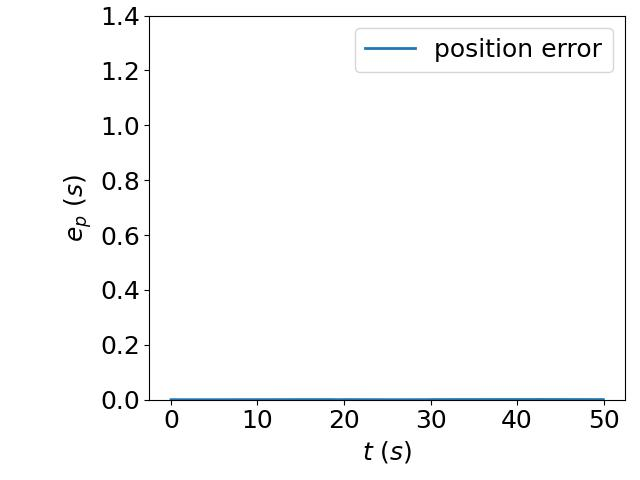
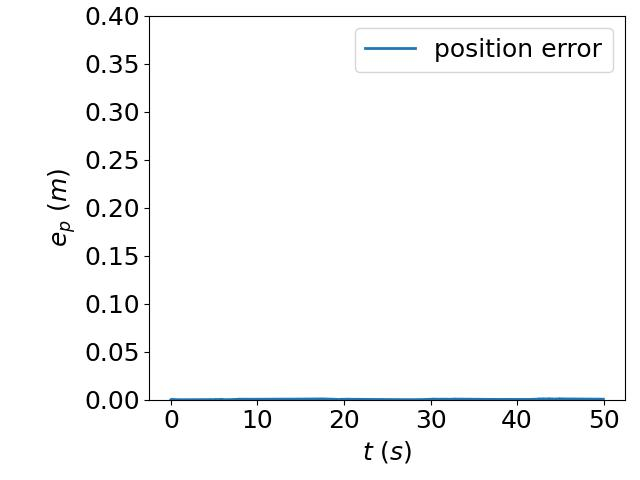
'update'

diff --git a/scripts/plt_bag.m b/scripts/plt_bag.m
@@ -1,0 +1,125 @@
+clear;
+num_bags = 10;
+vehicle_odoms = zeros(1000,2,num_bags);
+vehicle_cmds = zeros(1000,2,num_bags);
+bag_len = zeros(num_bags,1);
+x_diff = zeros(num_bags,1);
+y_diff = zeros(num_bags,1);
+l2_diff = zeros(num_bags,1);
+ang_diff = zeros(num_bags,1);
+for i = 1:num_bags
+%     if i ==7
+%         continue
+%     end
+    if i<10
+        bag_name=sprintf('%s%d%s','ps_1_5_0_6_1_0_0_5_0',i,'.bag');
+%         bag_name=sprintf('%s%d%s','ps_1_5_0_6_1_0_1_0_0',i,'.bag');
+    else
+        bag_name=sprintf('%s%d%s','ps_1_5_0_6_1_0_0_5_',i,'.bag');
+%         bag_name=sprintf('%s%d%s','ps_1_5_0_6_1_0_1_0_',i,'.bag');
+    end
+
+    bag = rosbag(bag_name);
+    bag_len(i) = bag.NumMessages;
+    current = select(bag,'Topic','/vehicle_pose','MessageType','nav_msgs/Odometry');
+    vehicle_current = readMessages(current,'DataFormat','struct');
+    for j=1:bag_len(i)
+        vehicle_odoms(j,1,i) = vehicle_current{j,1}.Pose.Pose.Position.X;
+        vehicle_odoms(j,2,i) = vehicle_current{j,1}.Pose.Pose.Position.Y;
+    end
+    w = vehicle_current{j,1}.Pose.Pose.Orientation.W;
+    x = vehicle_current{j,1}.Pose.Pose.Orientation.X;
+    y = vehicle_current{j,1}.Pose.Pose.Orientation.Y;
+    z = vehicle_current{j,1}.Pose.Pose.Orientation.Z;
+    eul = quat2eul([w x y z]);
+    x_diff(i) = abs(3 - vehicle_odoms(bag_len(i),1,i));
+    y_diff(i) = abs(0 - vehicle_odoms(bag_len(i),2,i));
+    l2_diff(i) = sqrt(x_diff(i)^2+y_diff(i)^2);
+    ang_diff(i) = abs(pi/6 - eul(1));
+end
+
+x_diff_mean = mean(x_diff);
+y_diff_mean = mean(y_diff);
+l2_diff_mean = mean(l2_diff);
+x_diff_sd = std(x_diff);
+y_diff_sd = std(y_diff);
+l2_diff_sd = std(l2_diff);
+x_diff = sort(x_diff);
+y_diff = sort(y_diff);
+l2_diff = sort(l2_diff);
+ang_diff = sort(ang_diff);
+boxplot([x_diff(2:end-1),y_diff(2:end-1),l2_diff(2:end-1),ang_diff(2:end-1)],'Labels',{'x_diff','y_diff','l2_diff','angle_dlff'},'Whisker',10);
+title('Boxplot of the errors')
+ylabel('Errors (m or rad)');
+
+
+num_forward=8;
+path_type_forward=[0;1;0;1;0;1;0;1];% 1 stands for bezier curve, 0 stands for straigt line
+P_forward=zeros(2,num_forward*4);
+
+P_forward(1:2,1:4)=[0,0,0,4;2,0,0,2];
+P_forward(1:2,5:8)=[4,4.5477,5,5;2,2,1.5477,1];
+P_forward(1:2,9:12)=[5,0,0,5;1,0,0,-2];
+P_forward(1:2,13:16)=[5,5,4.5477,4;-2,-2.5477,-3,-3];
+P_forward(1:2,17:20)=[4,0,0,1;-3,0,0,-3];
+P_forward(1:2,21:24)=[1,0.4532,0,0;-3,-3,-2.5477,-2];
+P_forward(1:2,25:28)=[0,0,0,0;-2,0,0,-1];
+P_forward(1:2,25:28)=[0,0,0,0;-2,0,0,-1];
+P_forward(1:2,29:32)=[0,0,2.0341,3;-1,0.6201,-0.5577,0];
+
+dt=0.005;
+step_total=floor(8/dt);
+step=floor(step_total/8);
+x_ori=zeros(8*step+1,1);
+y_ori=zeros(8*step+1,1);
+dk=1/step;
+x_ori(1) = P_forward(1,1);
+y_ori(1) = P_forward(2,1);
+for k=1:8
+    if path_type_forward(k)==1
+        for i=1:step %calculate the points on original bezier curve
+            [x_ori(1+i+(k-1)*step),y_ori(1+i+(k-1)*step)]=calculate_bezier_point(P_forward(1:2,(k-1)*4+1:4*k),i*dk);
+        end
+    else
+        x0=P_forward(1,(k-1)*4+1);
+        y0=P_forward(2,(k-1)*4+1);
+        x_end=P_forward(1,4*k);
+        y_end=P_forward(2,4*k);
+        Len=norm([y_end-y0;x_end-x0]);
+        theta_line=atan2(y_end-y0,x_end-x0);
+        for i=1:step
+            x_ori(1+i+(k-1)*step)=x0+i*dk*Len*cos(theta_line);
+            y_ori(1+i+(k-1)*step)=y0+i*dk*Len*sin(theta_line);
+        end
+    end
+end
+color = zeros(10,3);
+color(1,:) = [255 5 5]/255;
+color(2,:) = [255 100 5]/255;
+color(3,:) = [255 255 5]/255;
+color(4,:) = [200 255 5]/255;
+color(5,:) = [5 255 5]/255;
+color(6,:) = [5 255 100]/255;
+color(7,:) = [5 255 255]/255;
+color(8,:) = [5 200 255]/255;
+color(9,:) = [5 5 255]/255;
+color(10,:) = [255 5 255]/255;
+
+figure;
+hold on;
+% t_xer1 = ['average x error: ', num2str(mean(x_diff(2:end-1)))];
+% t_yer1 = ['average y error: ', num2str(mean(y_diff(2:end-1)))];
+% t_l2er1 = ['average l2 error: ', num2str(mean(l2_diff(2:end-1)))];
+% t_anger1 = ['average ang error: ', num2str(mean(ang_diff(2:end-1)))];
+% title({'qv 0.5';t_xer1;t_yer1;t_l2er1;t_anger1})
+plot(x_ori,y_ori,'-k','LineWidth',3);
+for i=1:1
+    plot(vehicle_odoms(1:bag_len(i),1,i),vehicle_odoms(1:bag_len(i),2,i),'-','LineWidth',1,'Color',color(i,:));
+end
+hold off;
+xlabel('m');
+ylabel('m');
+xlim([-1 6]);
+ylim([-3.5 2.5]);
+grid on;
+axis equal;

diff --git a/problems/unicycle_traj_tracking/data/physical_experiment/draw.py b/problems/unicycle_traj_tracking/data/physical_experiment/draw.py
@@ -1,11 +1,33 @@
 import numpy as np
 import matplotlib.pyplot as plt
+import scipy.io as sio
 import os
 from problems.unicycle_traj_tracking.data.butterfly_tracking.draw import load_data_and_save_figure
 
 def main():
     gmpc_solver_time = np.load('Geomtric_model_predictive_control_store_solve_time.npy')
     nmpc_solver_time = np.load('Nonlinear_model_predictive_control_store_solve_time.npy')
+    # save as mat file
+    sio.savemat('solve_time.mat', {'gmpc_solver_time': gmpc_solver_time, 'nmpc_solver_time': nmpc_solver_time})
+    # calculate mean and std
+    gmpc_solver_time_mean = np.mean(gmpc_solver_time)
+    gmpc_solver_time_std = np.std(gmpc_solver_time-gmpc_solver_time_mean)
+    nmpc_solver_time_mean = np.mean(nmpc_solver_time)
+    nmpc_solver_time_std = np.std(nmpc_solver_time-nmpc_solver_time_mean)
+    # max and min
+    gmpc_solver_time_max = np.max(gmpc_solver_time)
+    gmpc_solver_time_min = np.min(gmpc_solver_time)
+    nmpc_solver_time_max = np.max(nmpc_solver_time)
+    nmpc_solver_time_min = np.min(nmpc_solver_time)
+    print('gmpc_solver_time_mean: ', gmpc_solver_time_mean)
+    print('gmpc_solver_time_std: ', gmpc_solver_time_std)
+    print('nmpc_solver_time_mean: ', nmpc_solver_time_mean)
+    print('nmpc_solver_time_std: ', nmpc_solver_time_std)
+    print('gmpc_solver_time_max: ', gmpc_solver_time_max)
+    print('gmpc_solver_time_min: ', gmpc_solver_time_min)
+    print('nmpc_solver_time_max: ', nmpc_solver_time_max)
+    print('nmpc_solver_time_min: ', nmpc_solver_time_min)
+
     plt.figure()
     plt.boxplot([gmpc_solver_time, nmpc_solver_time], labels=['GMPC', 'NMPC'],showfliers=False, patch_artist=True )
     plt.ylabel('Solve time (s)')

diff --git a/controller/ref_traj_generator.py b/controller/ref_traj_generator.py
@@ -157,14 +157,16 @@ class TrajGenerator:
 
 def test_traj_generator():
     traj_config = {'type': TrajType.CIRCLE,
-                   'param': {'start_state': np.array([1, 1, np.pi]),
-                             'linear_vel': 0.5,
-                             'angular_vel': 0.5,
-                             'nTraj': 170,
-                             'dt': 0.05}}
+                   'param': {'start_state': np.array([0, 0, 0]),
+                             'dt': 0.2,
+                             'linear_vel': 0.1,
+                             'angular_vel': 0.05,  # don't change this
+                             'nTraj': 650}}
     traj_generator = TrajGenerator(traj_config)
     ref_traj, ref_v, dt = traj_generator.get_traj()
     plt.figure(1)
+    # show grid
+    plt.grid()
     plt.plot(ref_traj[0, :], ref_traj[1, :], 'b')
     plt.title('Reference Trajectory')
     plt.show()
@@ -220,4 +222,4 @@ def test_generate_eight_traj():
 
 
 if __name__ == '__main__':
-    test_generate_eight_traj()
+    test_traj_generator()

diff --git a/test/compare_euler_so2.py b/test/compare_euler_so2.py
@@ -21,7 +21,7 @@ ax.set_zlabel('$\cos(x)$',fontsize=font_size)
 ax.grid(linewidth=2)  # Adjust grid line width
 plt.tight_layout()
 ax.tick_params(labelsize=16)  # Adjust font size of grid numbers
-plt.savefig('lie_group.png')
+plt.savefig('lie_group.jpg')
 
 fig = plt.figure()
 ax = fig.add_subplot(111, projection='3d')
@@ -32,7 +32,7 @@ for i in range(-5,5):
     ax.plot(x+i*2*np.pi, y, z, color='blue')
     ax.scatter(-np.pi+i*2*np.pi, -np.pi, edgecolor='black', facecolors='none')
 ax.set_xlabel('x', fontsize=font_size)
-ax.set_ylabel('$\\theta$', fontsize=font_size)
+ax.set_ylabel('$\\theta$ (rad)', fontsize=font_size)
 
 ax.set_ylim([-4,4])
 ax.set_zlim([-4,4])
@@ -40,6 +40,6 @@ plt.tight_layout()
 ax.grid(linewidth=3)  # Adjust grid line width
 ax.tick_params(labelsize=16)  # Adjust font size of grid numbers
 
-plt.savefig('euler.png')
+plt.savefig('euler.jpg')
 
 plt.show()

diff --git a/problems/unicycle_traj_tracking/data/butterfly_tracking/draw.py b/problems/unicycle_traj_tracking/data/butterfly_tracking/draw.py
@@ -41,7 +41,7 @@ def load_data_and_save_figure(data_path):
     line_width = 2
     plt.xticks(fontsize=font_size)
     plt.yticks(fontsize=font_size)
-    pos_lim = 1.4
+    pos_lim = 0.4
     ori_lim = 1.4
     plt.plot(t, orientation_error.T,label='orientation error', linewidth=line_width)
     plt.xlabel("$t~(s)$",fontsize=20)
@@ -59,7 +59,7 @@ def load_data_and_save_figure(data_path):
     plt.yticks(fontsize=font_size)
     plt.plot(t, position_error.T,label='position error', linewidth=line_width)
     plt.xlabel("$t~(s)$",fontsize=font_size)
-    plt.ylabel("$e_p~(s)$",fontsize=font_size)
+    plt.ylabel("$e_p~(m)$",fontsize=font_size)
     plt.legend(fontsize=font_size)
     plt.tight_layout()
     plt.ylim(0, pos_lim)

diff --git a/controller/feedback_linearization.py b/controller/feedback_linearization.py
@@ -28,6 +28,7 @@ class FBLinearizationController:
         start_time = time.time()
         v_d, w_d = ref_vel_cmd
         state_diff = ref_state - curr_state
+        state_diff[2] = np.arctan2(np.sin(state_diff[2]), np.cos(state_diff[2]))
         frame_rot = np.array([[np.cos(curr_state[2]), np.sin(curr_state[2]), 0],
                               [-np.sin(curr_state[2]), np.cos(curr_state[2]), 0],
                               [0, 0, 1]])

diff --git a/problems/unicycle_traj_tracking/main_single_tracking_task.py b/problems/unicycle_traj_tracking/main_single_tracking_task.py
@@ -9,7 +9,7 @@ import os
 import matplotlib.pyplot as plt
 
 def single_tracking_task():
-    env_type = EnvType.TURTLEBOT
+    env_type = EnvType.SCOUT_MINI
     controller_type = ControllerType.FEEDBACK_LINEARIZATION
     init_state = np.array([0, 0, 0])
     init_x = np.random.uniform(-0.05, 0.05)
